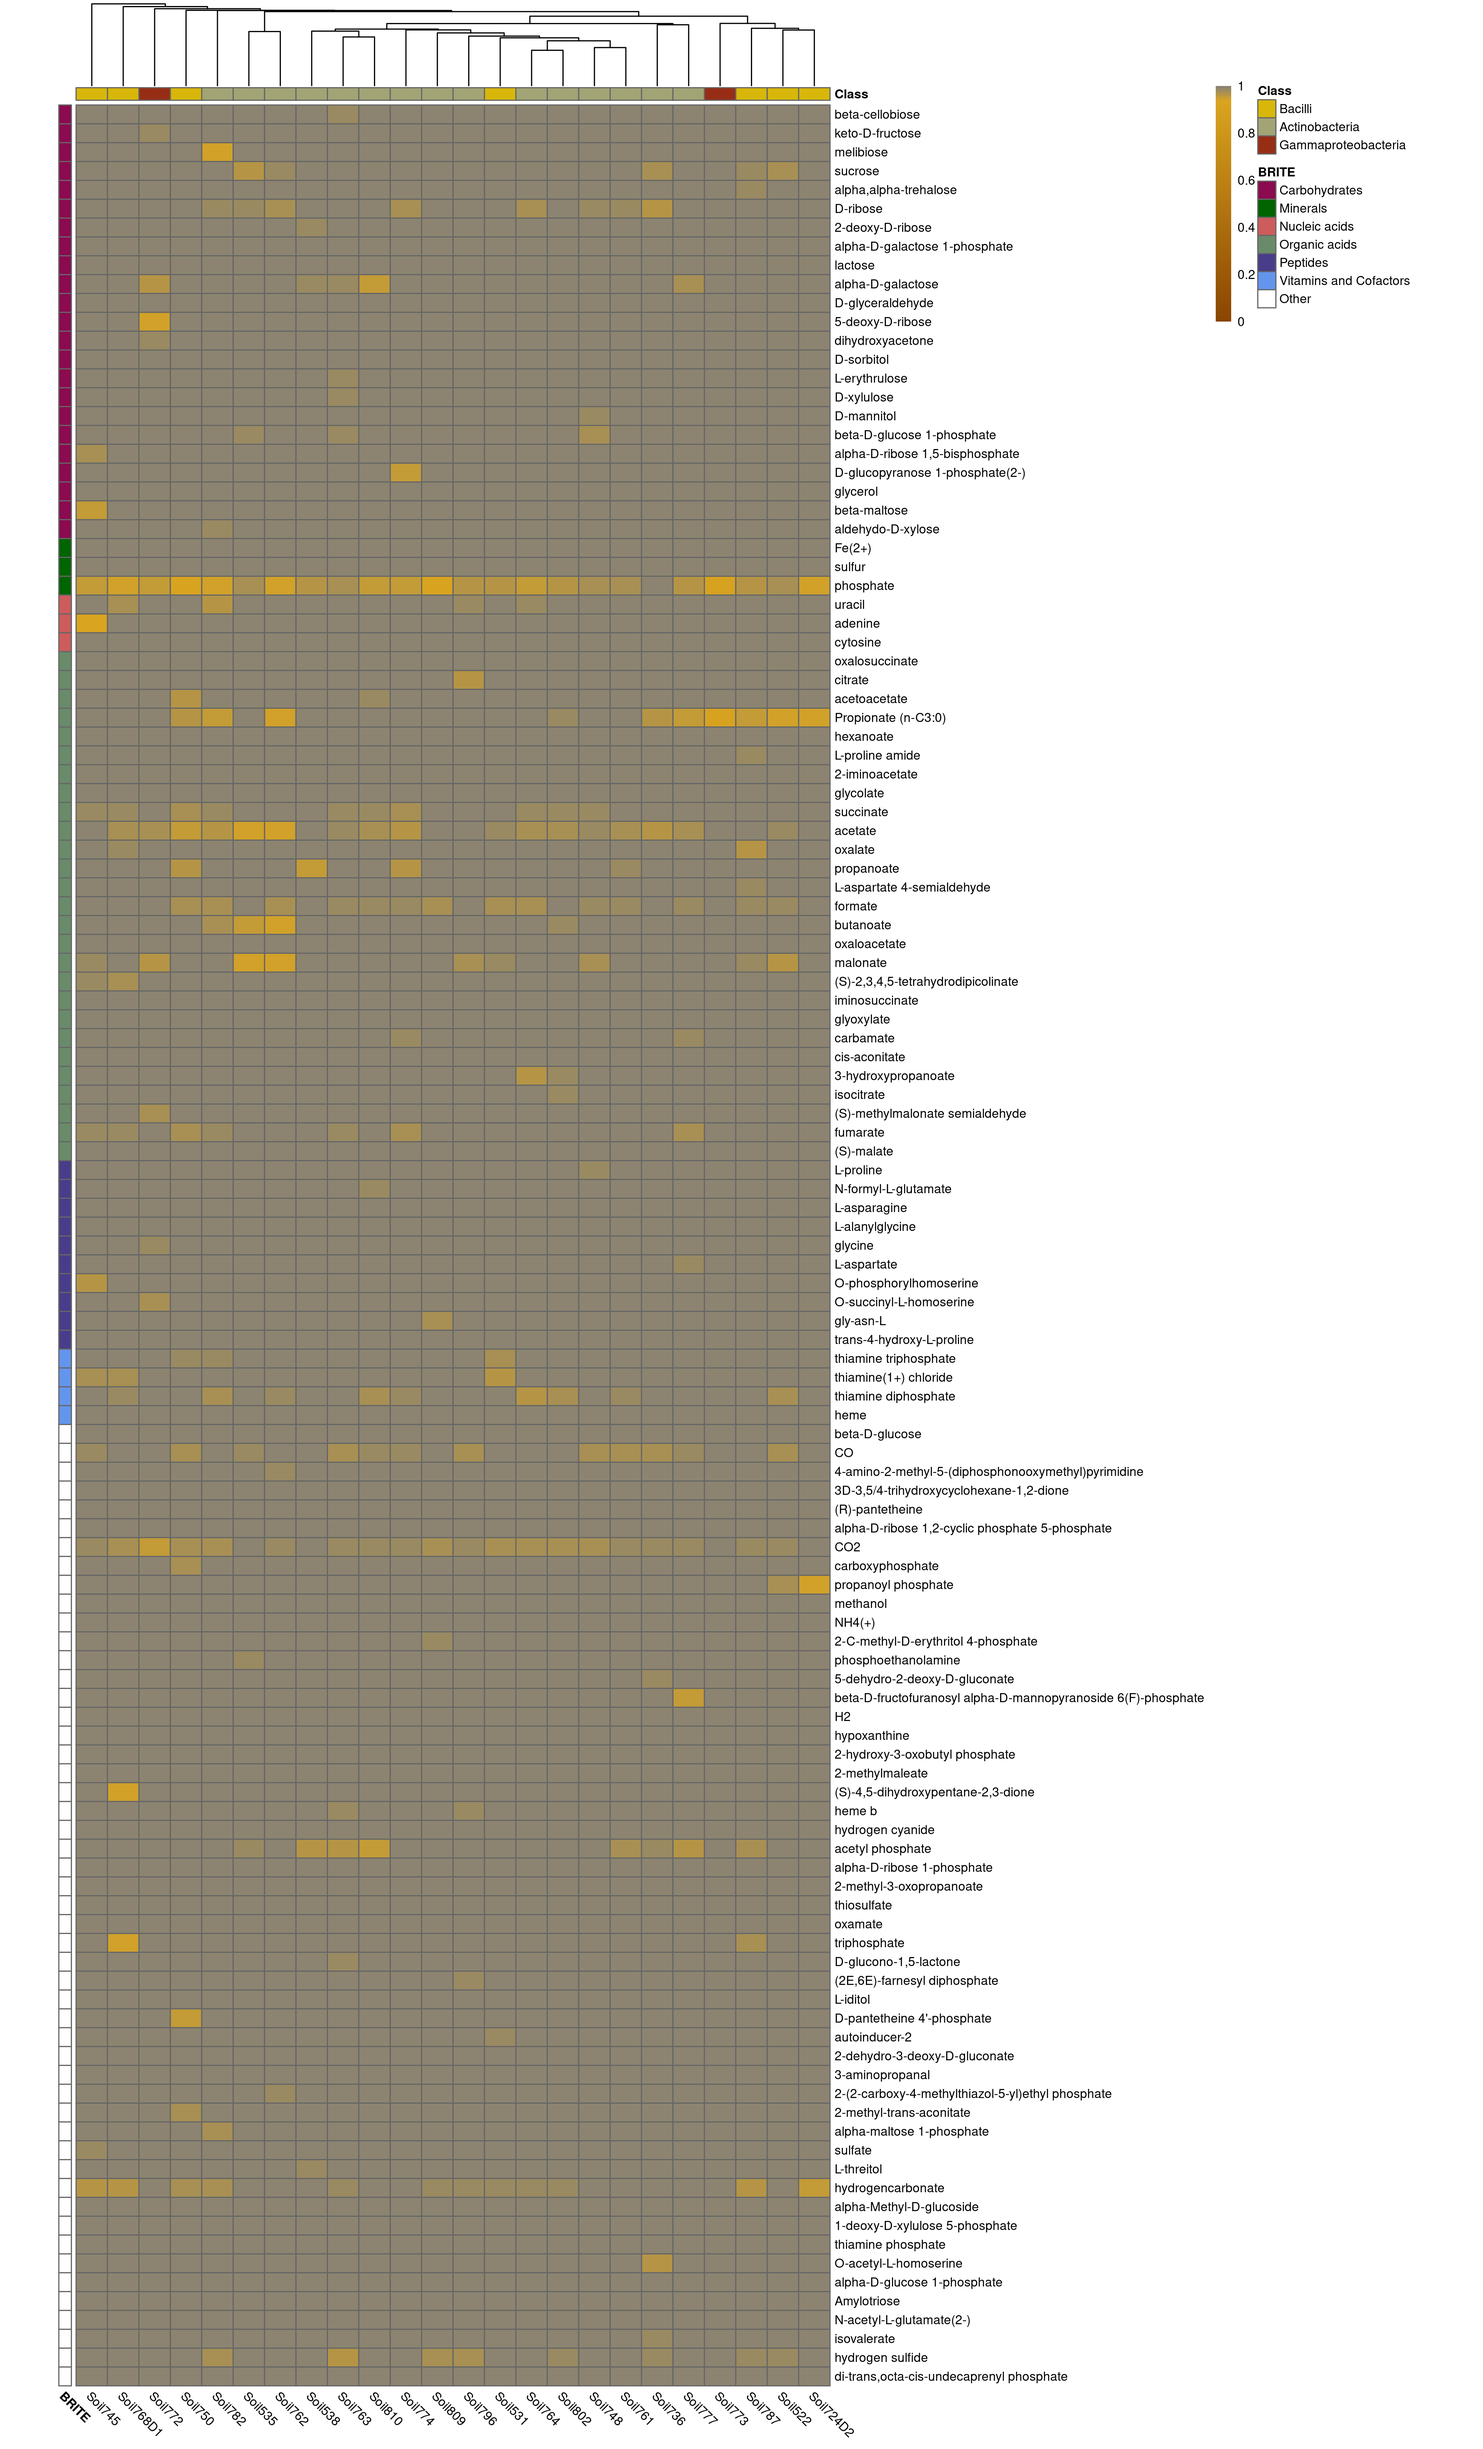
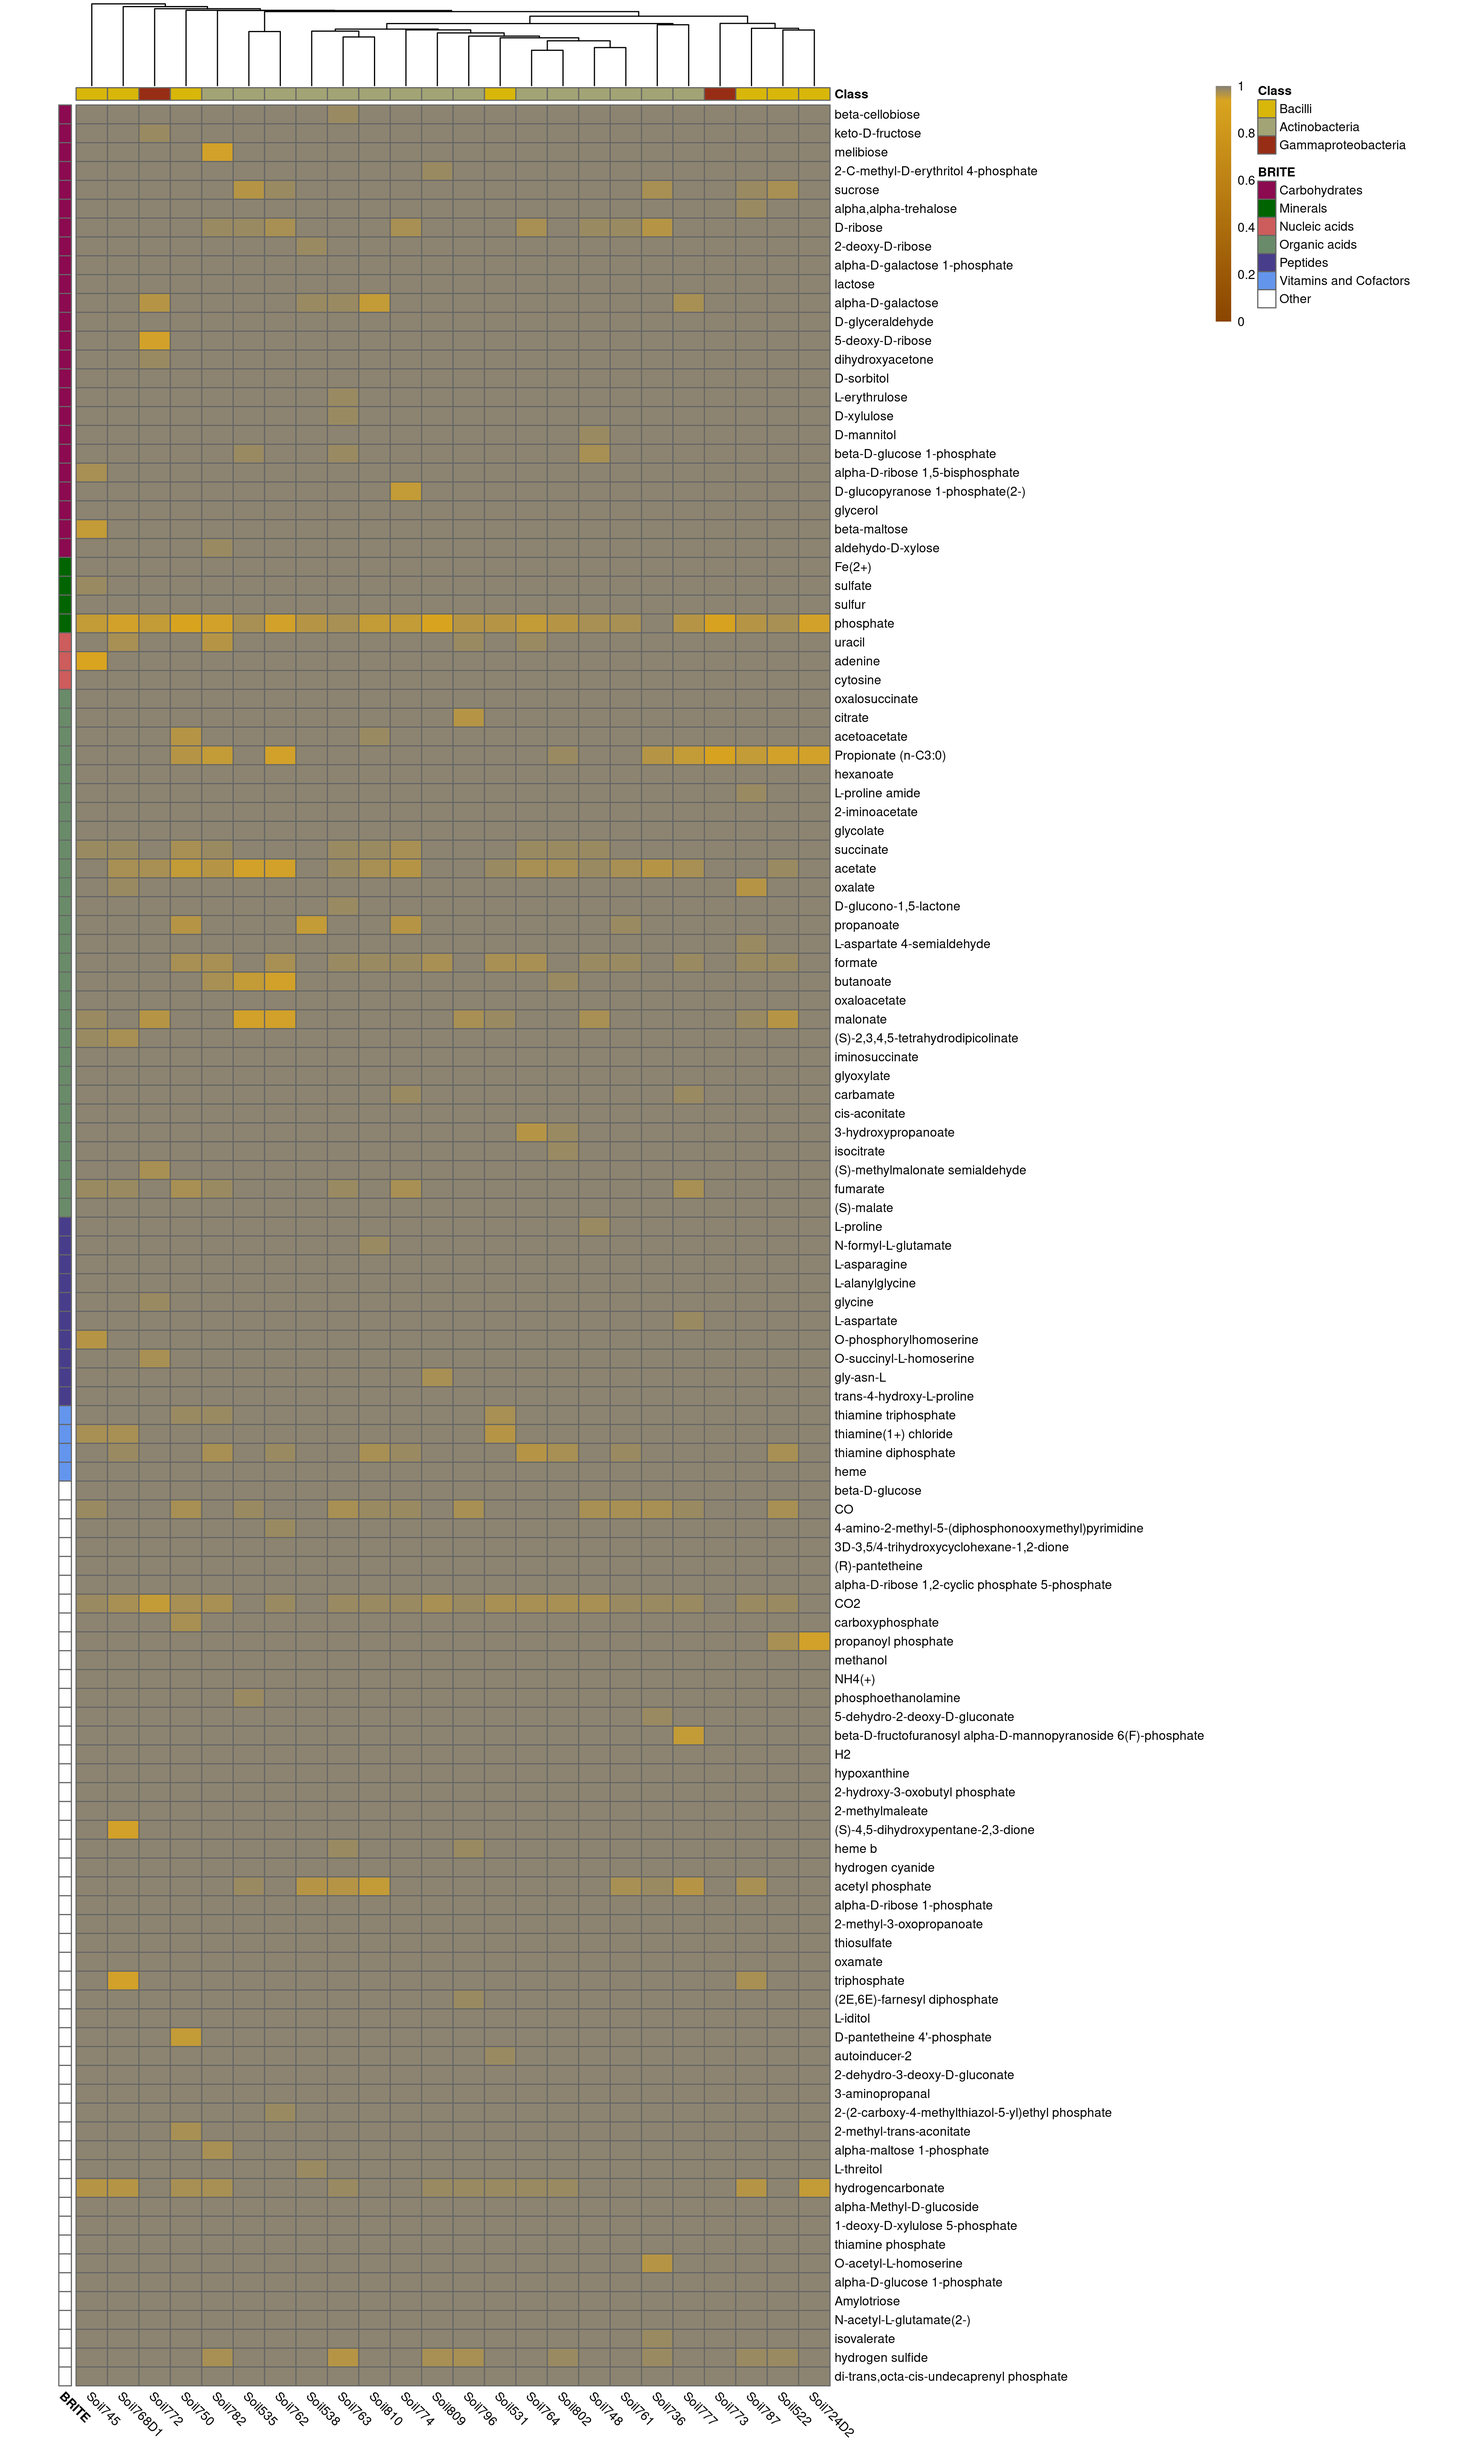
add and minor changes

diff --git a/code/matlab/gap_filling_analysis/find_exchanged_metabolites.m b/code/matlab/gap_filling_analysis/find_exchanged_metabolites.m
@@ -322,6 +322,7 @@ writetable(array2table(exchange_mt, 'VariableNames', tax_classes),...
 % 
 exchanged_IDs = intersect(vertcat(imported_per_model{:}),vertcat(exported_per_model{:}));
 exchanged_brite = map2KEGGBrite(exchanged_IDs,briteFile);
+exchanged_brite(cellfun(@isempty,exchanged_brite)) = {{'Other'}};
 exchanged_brite = vertcat(exchanged_brite{:});
 exchanged_names = translateIDs(strtok(exchanged_IDs,'['),'met',[],'MNXref', 'NAME');
 imported_per_model = cellfun(@(x)strjoin(x,','),imported_per_model,'un',0);
